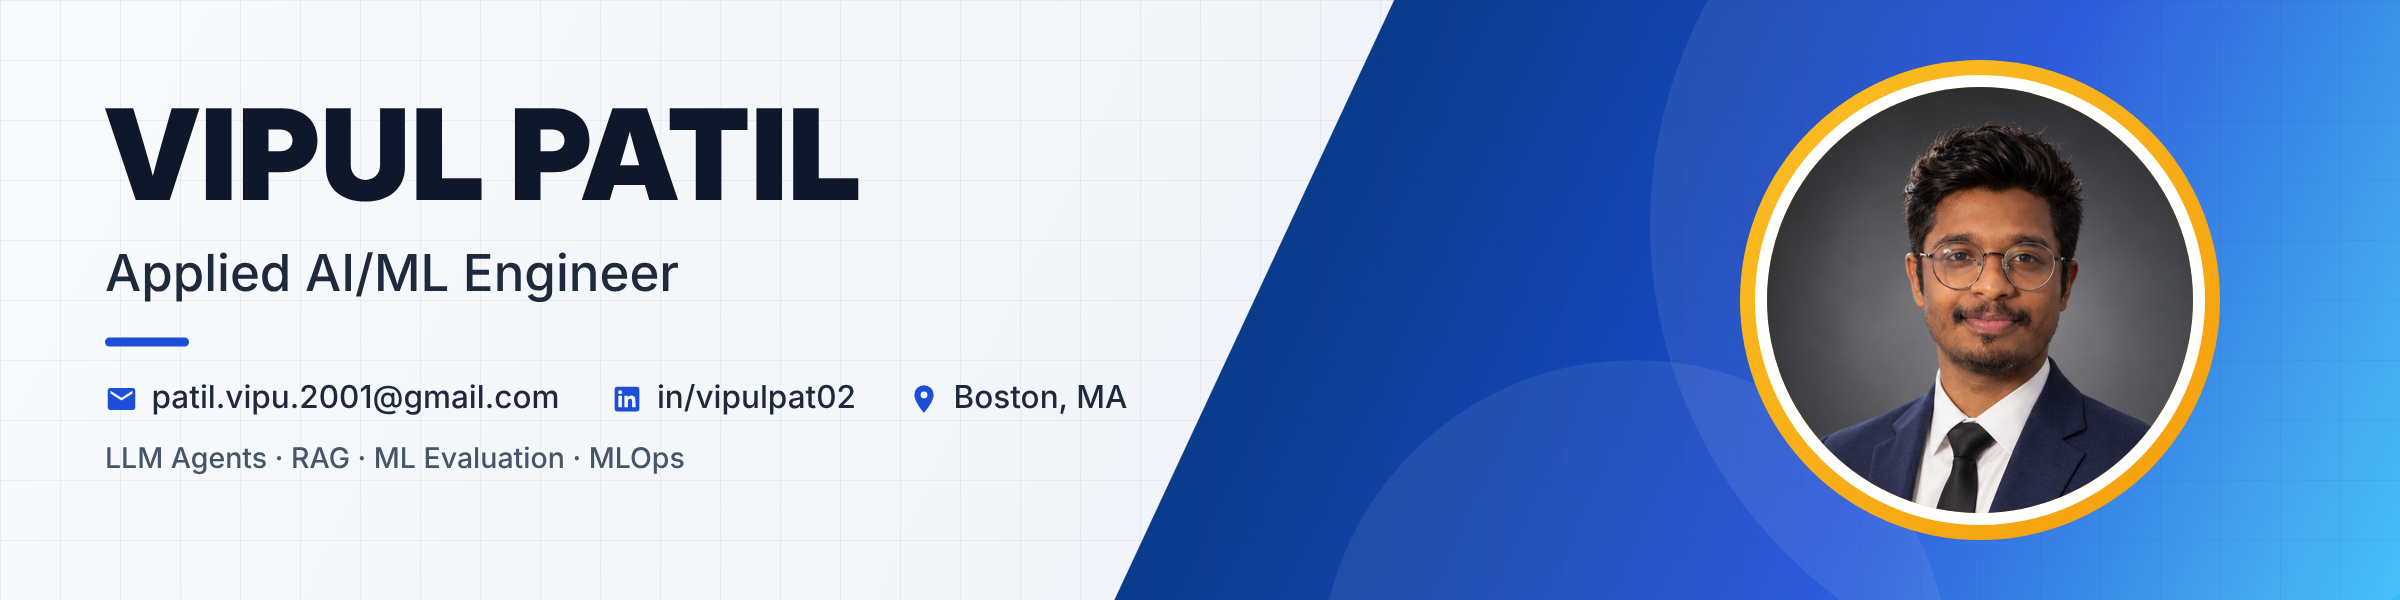
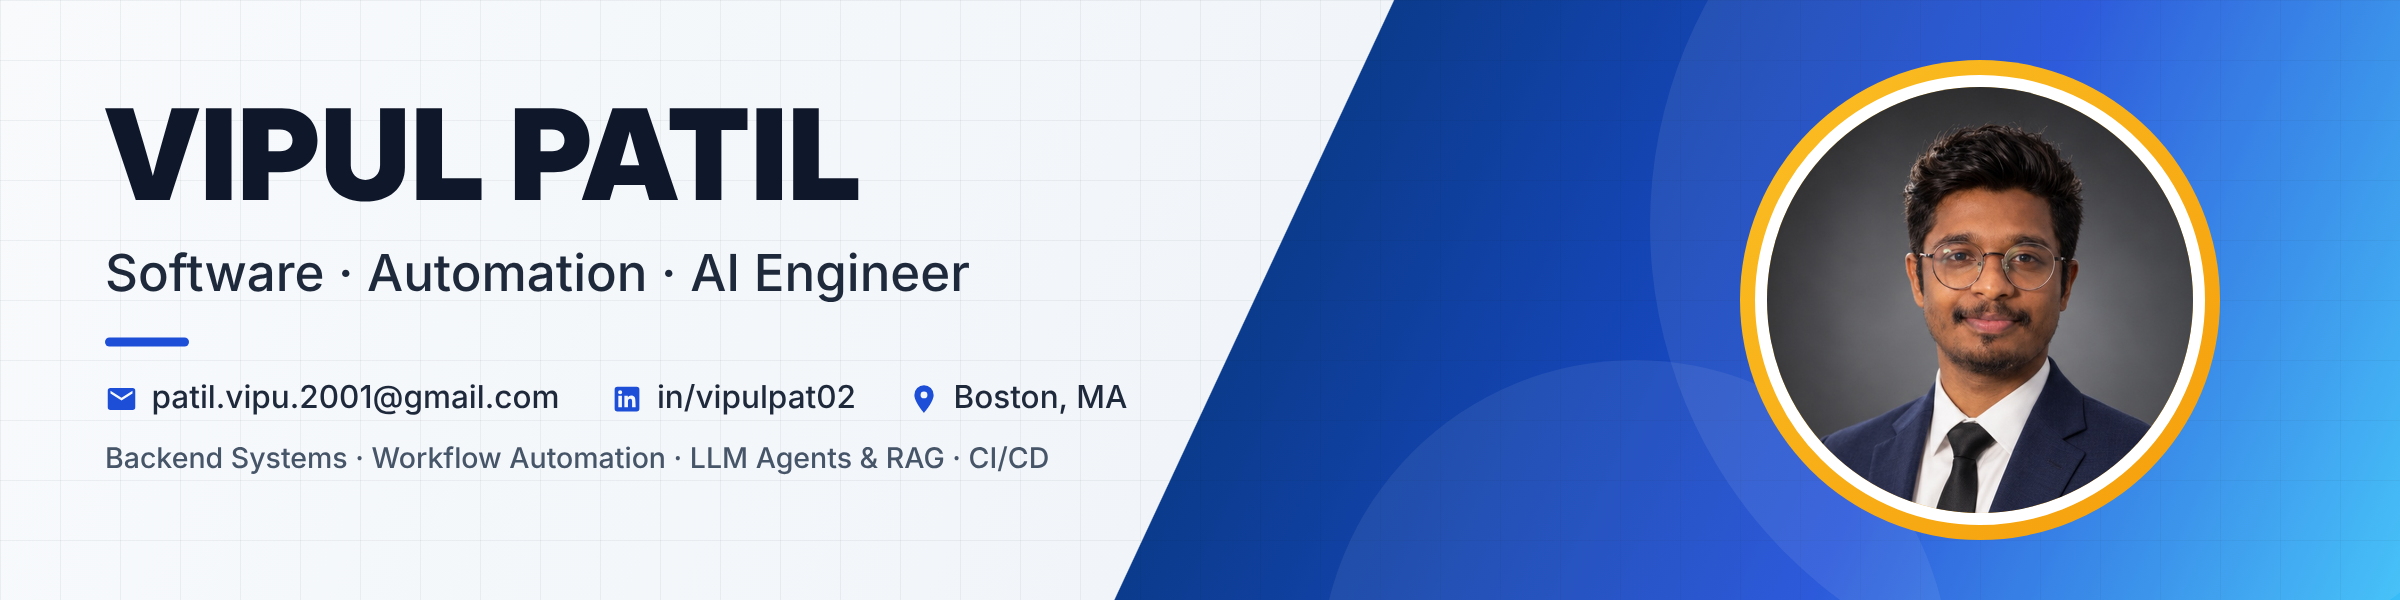
Position profile as Software, Automation and AI Engineer

Changed region(s): [[0.0312, 0.42, 0.4062, 0.51], [0.0312, 0.75, 0.4375, 0.78]]

diff --git a/README.md b/README.md
@@ -1,11 +1,11 @@
-<a href="https://vipu-patil.github.io/Vipul-Patil-Portfolio/"><img src="assets/banner.png" alt="Vipul Patil · Applied AI/ML Engineer" width="100%" /></a>
+<a href="https://vipu-patil.github.io/Vipul-Patil-Portfolio/"><img src="assets/banner.png" alt="Vipul Patil · Software · Automation · AI Engineer" width="100%" /></a>
 
 <h1 align="center">Hi 👋, I'm Vipul Patil.</h1>
 
-<h3 align="center">An Applied AI/ML Engineer who ships ML systems that hold up on messy, real-world data</h3>
+<h3 align="center">A Software, Automation & AI Engineer who builds reliable backend systems, automates manual work, and ships AI into production</h3>
 
 <p align="center">
-  <img src="https://readme-typing-svg.demolab.com?font=Fira+Code&weight=500&size=18&pause=1200&color=58A6FF&center=true&vCenter=true&width=600&lines=AI+Engineer+%40+Centene;LLM+agents+%C2%B7+RAG+%C2%B7+Evaluation+%C2%B7+MLOps;M.S.+Computer+Science+%40+Northeastern" alt="Typing intro" />
+  <img src="https://readme-typing-svg.demolab.com?font=Fira+Code&weight=500&size=18&pause=1200&color=58A6FF&center=true&vCenter=true&width=640&lines=Software+Engineer+%C2%B7+Python%2C+C%2B%2B%2C+FastAPI;Automation+Engineer+%C2%B7+CI%2FCD%2C+pipelines%2C+browser+agents;AI+Engineer+%C2%B7+LLM+agents%2C+RAG%2C+ML+in+production" alt="Software · Automation · AI Engineer" />
 </p>
 
 <p align="left">
@@ -17,38 +17,78 @@
 
 <img align="right" src="assets/card.png" alt="Vipul Patil model card" width="340" />
 
-- 🏥 I'm currently an **AI Engineer at [Centene](https://www.centene.com/)**, working on fraud detection and retrieval for healthcare claims
+- 💻 I build **production software for healthcare and financial services**, from real-time backend services to the pipelines that ship them
 
-- 🔭 I'm currently building **[AI Banking Computer-Use Agent](https://github.com/Vipu-Patil/AI-Banking-Computer-Use-Agent)** and **[IncidentIQ](https://github.com/Vipu-Patil/IncidentIQ)**
+- ⚙ I **automate manual work**: CI/CD pipelines, data pipelines, and AI agents that operate legacy web apps with no APIs
 
-- 🌱 I'm currently going deeper on **LLM agents, RAG and ML evaluation**
+- 🤖 I take **AI from prototype to production**, including ML models, RAG search tools and LLM agents with human-in-the-loop safety
 
-- 👯 I'm looking to collaborate on **AI agents that are safe enough to use in finance and healthcare**
+- 🔭 Currently building **[AI Banking Computer-Use Agent](https://github.com/Vipu-Patil/AI-Banking-Computer-Use-Agent)** and **[IncidentIQ](https://github.com/Vipu-Patil/IncidentIQ)**
 
-- 🎓 **M.S. in Computer Science**, Northeastern University (2025)
+- 🏢 Experience at **Centene** (healthcare) and **Capgemini** (financial services)
 
-- 🌐 Everything I've built is on **[my portfolio website](https://vipu-patil.github.io/Vipul-Patil-Portfolio/)**
+- 🎓 **M.S., Northeastern University** (Boston, 2025)
 
-- 💬 Ask me about **RAG, fraud detection, evals, FastAPI and MLOps**
+- 🌐 More about me on **[my portfolio website](https://vipu-patil.github.io/Vipul-Patil-Portfolio/)**
 
 - 📫 Reach me at **[patil.vipu.2001@gmail.com](mailto:patil.vipu.2001@gmail.com)**
 
-- ⚡ Fun fact: **I will build an eval suite for anything**
+- ⚡ Fun fact: **if I do something twice, I automate it**
 
 <br clear="right" />
 
 ---
 
+### 🧭 What I do
+
+<table>
+<tr>
+<td width="33%" valign="top">
+
+#### 💻 Software Engineering
+- Backend services in **Python, C++ & FastAPI**
+- **REST APIs** and microservices
+- Real-time systems: **10K+ tx/min at < 200 ms**
+- **PostgreSQL, SQL**, Spark data pipelines
+- Testing, code review, observability
+
+</td>
+<td width="33%" valign="top">
+
+#### ⚙ Automation
+- **CI/CD** with GitHub Actions & Docker
+- Release cycles **2 weeks → 3 days**
+- **ETL pipelines**: 2 hrs → under 10 min
+- **Browser automation** with Playwright
+- Automated health checks & rollback
+
+</td>
+<td width="33%" valign="top">
+
+#### 🤖 AI Engineering
+- **LLM agents** with tool calling
+- **RAG** & vector search (FAISS, Pinecone, pgvector)
+- **ML models** in production (XGBoost)
+- Evals, guardrails, human-in-the-loop
+- MLflow, model serving on AWS
+
+</td>
+</tr>
+</table>
+
+---
+
 ### 📈 Impact
 
-| | Result | Where |
+| | Result | Area |
 |:-:|---|---|
-| 🎯 | **+28% PR-AUC** over baseline on healthcare claims fraud detection | Centene |
-| ⏱ | **40% smaller review queue** for a team of 12 claims adjudicators | Centene |
-| 🟢 | **99.7% uptime** on real-time ML scoring endpoints (AWS) | Centene |
-| ⚡ | **< 200 ms** risk scoring at **10K+ transactions/min** | Capgemini |
-| 🚀 | Release cycle cut from **2 weeks → 3 days** with MLOps pipelines | Capgemini |
-| 📝 | **~50% less** analyst documentation time with a LLaMA-based compliance assistant | Capgemini |
+| ⏱ | **40% smaller manual review queue** for 12 claims adjudicators with a real-time FastAPI scoring service | Software · AI |
+| 🟢 | **99.7% uptime** on production endpoints on AWS with automated health checks and rollback | Software · Automation |
+| ⚡ | **10K+ transactions/min at < 200 ms** in Python and C++ backend services | Software |
+| 🚀 | Release cycles cut from **2 weeks → 3 days** with CI/CD pipelines | Automation |
+| 🧹 | Data processing cut from **2 hours → under 10 minutes** with Python ETL pipelines | Automation |
+| 🎯 | **+28% PR-AUC** over baseline on a production fraud-detection model | AI |
+| 🔎 | Claim history surfaced **in seconds** with a RAG research tool, instead of manual database searches | AI |
 
 ---
 
@@ -59,7 +99,7 @@
 <td width="50%" valign="top">
 
 #### 🏦 [AI Banking Computer-Use Agent](https://github.com/Vipu-Patil/AI-Banking-Computer-Use-Agent)
-An LLM agent that learns to operate a **legacy banking back-office app** like a human would, then saves the workflow as a **replayable, auditable artifact**.
+**Automates banking workflows in legacy web apps that have no APIs**, using an LLM agent that drives a real browser and saves each workflow as a **replayable, auditable artifact**.
 
 - Picks only real, verified page elements, so it can't hallucinate clicks
 - **Human approval** for risky actions, plus mid-task human handoff
@@ -87,7 +127,7 @@ An AI **incident-investigation agent** that reads logs, metrics and deployments 
 <td colspan="2" valign="top">
 
 #### 💼 [Portfolio site](https://vipu-patil.github.io/Vipul-Patil-Portfolio/) · [source](https://github.com/Vipu-Patil/Vipul-Patil-Portfolio)
-A playful React + Vite portfolio with **"Ask my resume"**, an in-browser TF-IDF retriever that answers visitors' questions from my resume, and an ML-style **model card** about me. `React` `Vite` `JavaScript`
+A React + Vite portfolio with **"Ask my resume"**, an in-browser TF-IDF retriever that answers visitors' questions from my resume. It's deployed automatically to **GitHub Pages** with GitHub Actions. `React` `Vite` `GitHub Actions`
 
 </td>
 </tr>
@@ -98,29 +138,29 @@ A playful React + Vite portfolio with **"Ask my resume"**, an in-browser TF-IDF 
 ### 🧰 Tech stack
 
 <p align="center">
-  <img src="https://skillicons.dev/icons?i=py,ts,cpp,react,fastapi,postgres,mongodb,aws,docker,kubernetes,git,githubactions,prometheus&perline=13" alt="Tech stack icons" />
+  <img src="https://skillicons.dev/icons?i=py,cpp,ts,java,fastapi,react,postgres,mongodb,redis,linux,docker,kubernetes,aws,githubactions,git,prometheus&perline=8" alt="Tech stack icons" />
 </p>
 
 | Area | Tools |
 |---|---|
-| **Machine learning** | XGBoost · feature engineering · PR-AUC evaluation · error analysis · Hugging Face |
-| **Retrieval & LLMs** | Embeddings · RAG · FAISS · Pinecone · pgvector · LangGraph · tool calling · prompt engineering |
-| **Evaluation & controls** | Offline evals · adversarial testing · LangSmith · human-in-the-loop · auditability |
-| **Software** | Python · TypeScript · SQL · C++ · FastAPI · React · REST APIs · PostgreSQL · MongoDB · Apache Spark |
-| **Production & MLOps** | AWS · Docker · Kubernetes · GitHub Actions · MLflow · Prometheus |
+| **Languages** | Python · C++ · TypeScript · SQL · Java |
+| **Backend & APIs** | FastAPI · REST API design · microservices · PostgreSQL · MongoDB · Redis · pytest |
+| **Automation & DevOps** | GitHub Actions CI/CD · Docker · Kubernetes · Linux · AWS (EC2, Lambda, S3) · Playwright · Prometheus |
+| **Data** | Apache Spark · Kafka · ETL pipelines · Pandas · NumPy |
+| **AI & ML** | LLMs (OpenAI, Anthropic, Gemini) · LangChain · LangGraph · RAG · FAISS · Pinecone · pgvector · XGBoost · Scikit-learn · PyTorch · MLflow |
 
 ---
 
 ### 💼 Experience
 
-**AI Engineer · Centene Corporation** · *Jun 2025 – Present* · Boston, MA
-<br/>Fraud detection and retrieval for healthcare claims: ML models in production with FastAPI on AWS, plus embedding search (FAISS, Pinecone) that gives adjusters historical context in seconds.
+**Centene Corporation** · Boston, MA · *Healthcare*
+<br/>Built and deployed a real-time claim-scoring service (Python, FastAPI) on AWS at 99.7% uptime, a RAG claim-research tool (LangChain, FAISS, Pinecone), and an XGBoost fraud model with +28% PR-AUC.
 
-**AI Software Engineer · Capgemini** · *Jan 2023 – Aug 2023* · Pune, India
-<br/>LLM apps, RAG and real-time risk scoring for financial services: LLaMA-based compliance drafting, RAG over case data (40% faster research), and Python/C++ scoring backends.
+**Capgemini** · Pune, India · *Financial services*
+<br/>Built Python and C++ backend services for real-time transaction risk scoring (10K+ tx/min, < 200 ms) and GitHub Actions CI/CD pipelines that cut release cycles from 2 weeks to 3 days.
 
-**Data Science Intern · PharmaPro** · *Feb 2022 – May 2022* · Mumbai, India
-<br/>Python ETL pipelines that turned unstructured PDFs and web data into clean datasets, cutting processing from 2 hours to under 10 minutes.
+**PharmaPro** · Mumbai, India · *Data*
+<br/>Automated Python ETL pipelines that turned unstructured PDFs and web data into clean datasets, cutting processing from 2 hours to under 10 minutes.
 
 ---
 
@@ -128,9 +168,8 @@ A playful React + Vite portfolio with **"Ask my resume"**, an in-browser TF-IDF 
 
 ### 🤝 Let's connect
 
-I'm always happy to talk about **LLM agents, RAG, ML evaluation** or **putting AI into production in finance and healthcare**.
+Open to **Software Engineer, Automation Engineer and AI Engineer** roles. Happy to talk about **backend systems, automation, LLM agents** or **shipping AI in finance and healthcare**.
 
 <a href="https://vipu-patil.github.io/Vipul-Patil-Portfolio/">Portfolio</a> · <a href="https://linkedin.com/in/vipulpat02">LinkedIn</a> · <a href="mailto:patil.vipu.2001@gmail.com">patil.vipu.2001@gmail.com</a>
-
 
 </div>
